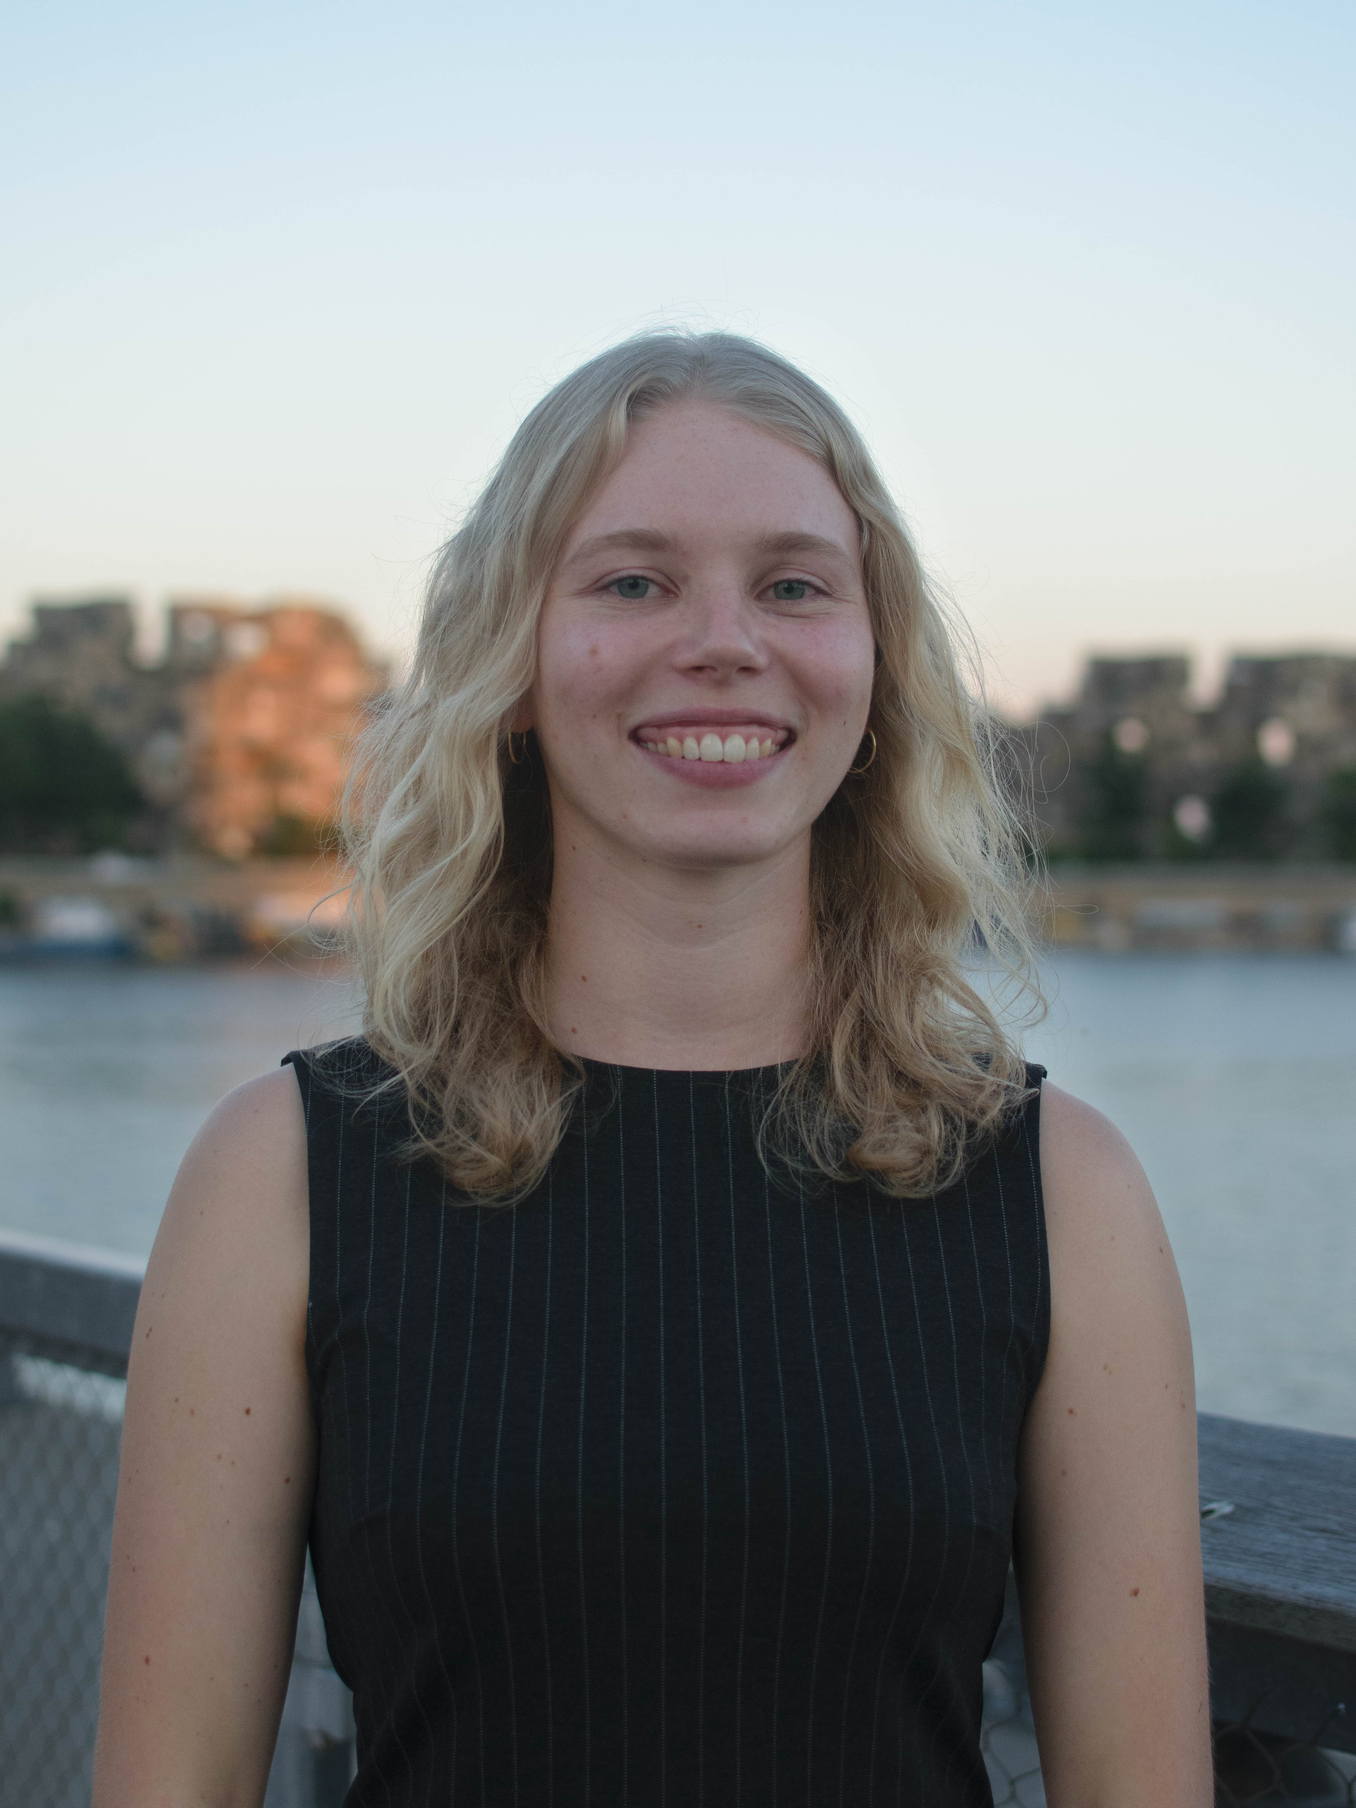
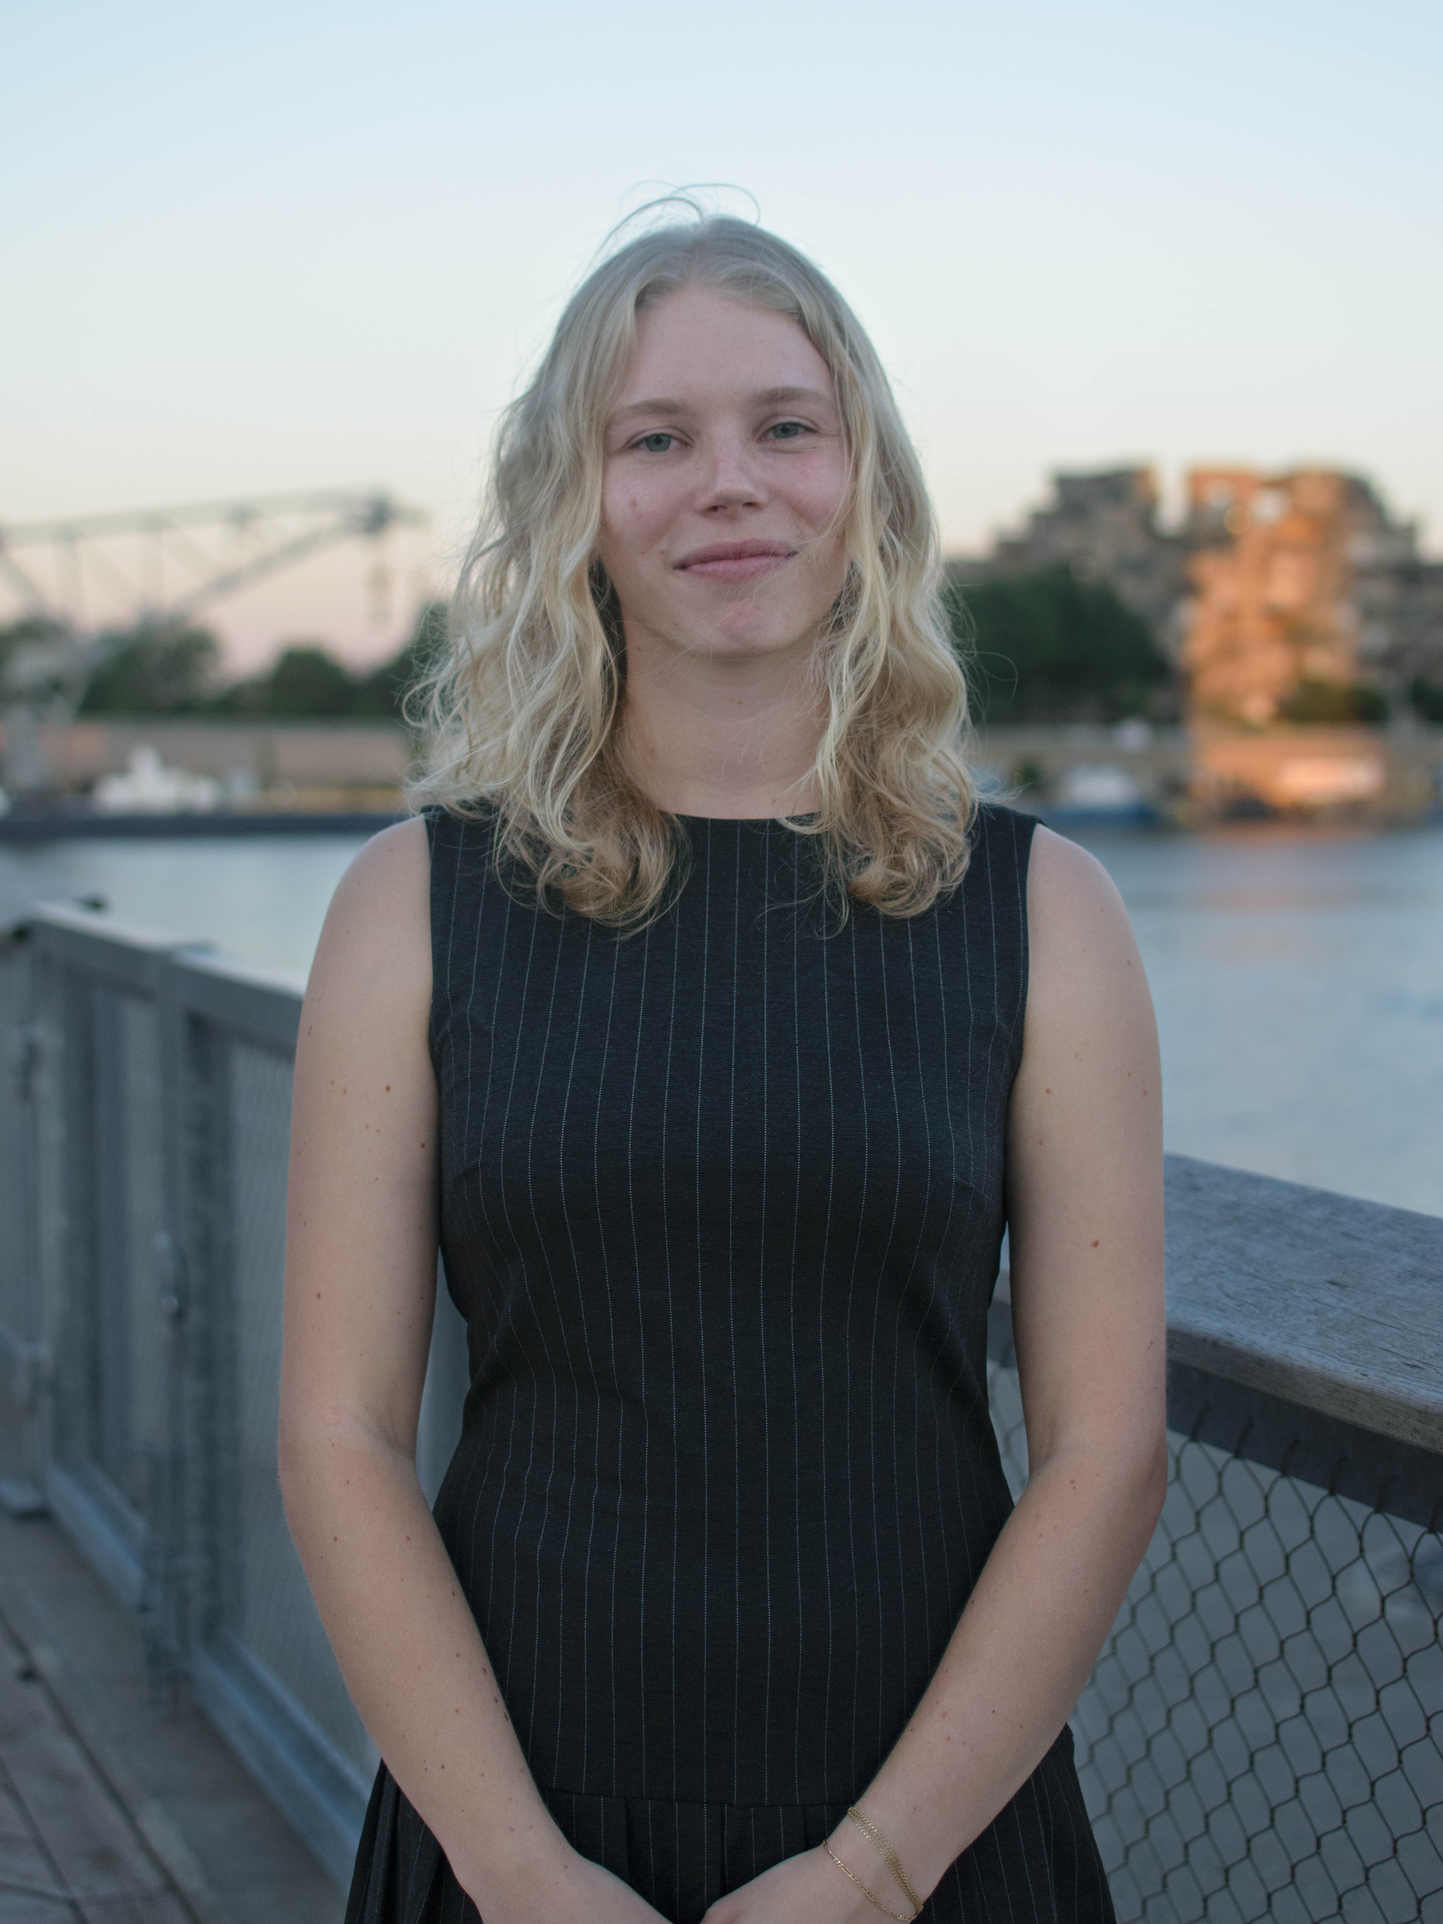
[refactor] : synchronize project descriptions and disable access to BIRA and PODI detail pages

diff --git a/src/pages/Team.tsx b/src/pages/Team.tsx
@@ -82,7 +82,7 @@ function MemberModal({ member, onClose }: { member: TeamMember; onClose: () => v
 
     return (
         <div
-            className={`fixed inset-0 z-[60] flex bg-heka transition-opacity duration-500 ${visible ? 'opacity-100' : 'opacity-0'}`}
+            className={`fixed inset-0 z-60 flex bg-heka transition-opacity duration-500 ${visible ? 'opacity-100' : 'opacity-0'}`}
             role='dialog'
             aria-modal='true'
             aria-label={`Détails de ${member.name}`}
@@ -90,7 +90,9 @@ function MemberModal({ member, onClose }: { member: TeamMember; onClose: () => v
                 if (event.target === event.currentTarget) onClose();
             }}
         >
-            <div className={`flex h-full w-full flex-col overflow-y-auto transition-transform duration-500 lg:flex-row ${visible ? 'translate-x-0' : 'translate-x-full'}`}>
+            <div
+                className={`flex h-full w-full flex-col overflow-y-auto transition-transform duration-500 lg:flex-row ${visible ? 'translate-x-0' : 'translate-x-full'}`}
+            >
                 <div className='relative min-h-[42vh] shrink-0 bg-charcoal lg:min-h-0 lg:w-[43%]'>
                     {member.photo ? (
                         <img
@@ -140,7 +142,10 @@ function MemberModal({ member, onClose }: { member: TeamMember; onClose: () => v
                         <div className='mt-7 space-y-1.5 text-sm sm:text-base'>
                             {member.program && <p>Programme : {member.program}</p>}
                             {member.email && (
-                                <a className='block transition-colors hover:text-heka-yellow' href={`mailto:${member.email}`}>
+                                <a
+                                    className='block transition-colors hover:text-heka-yellow'
+                                    href={`mailto:${member.email}`}
+                                >
                                     Courriel : {member.email}
                                 </a>
                             )}
@@ -170,8 +175,11 @@ function MemberModal({ member, onClose }: { member: TeamMember; onClose: () => v
                         </div>
 
                         <div className='mt-12 border-t border-white/30 pt-6'>
-                            <p className='text-lg leading-relaxed sm:text-xl' style={{ fontFamily: 'var(--font-display)' }}>
-                                “{member.message || 'Un petit mot du membre sera bientôt ajouté.'}”
+                            <p
+                                className='text-lg leading-relaxed sm:text-xl'
+                                style={{ fontFamily: 'var(--font-display)' }}
+                            >
+                                {member.message ? `“${member.message}”` : ''}
                             </p>
                         </div>
                     </div>
@@ -257,7 +265,10 @@ export default function Team() {
                                     key={m.id}
                                     className='w-full sm:w-[calc(50%-0.5rem)] lg:w-[calc(25%-0.75rem)]'
                                 >
-                                    <MemberCard member={m} onOpen={() => setSelectedMember(m)} />
+                                    <MemberCard
+                                        member={m}
+                                        onOpen={() => setSelectedMember(m)}
+                                    />
                                 </div>
                             ))}
                         </div>
@@ -288,7 +299,10 @@ export default function Team() {
                                     key={m.id}
                                     className='w-full sm:w-[calc(50%-0.5rem)] lg:w-[calc(33.333%-0.667rem)]'
                                 >
-                                    <MemberCard member={m} onOpen={() => setSelectedMember(m)} />
+                                    <MemberCard
+                                        member={m}
+                                        onOpen={() => setSelectedMember(m)}
+                                    />
                                 </div>
                             ))}
                         </div>
@@ -319,7 +333,10 @@ export default function Team() {
                                     key={m.id}
                                     className='w-full sm:w-[calc(50%-0.5rem)] lg:w-[calc(33.333%-0.667rem)]'
                                 >
-                                    <MemberCard member={m} onOpen={() => setSelectedMember(m)} />
+                                    <MemberCard
+                                        member={m}
+                                        onOpen={() => setSelectedMember(m)}
+                                    />
                                 </div>
                             ))}
                         </div>

diff --git a/src/pages/Home.tsx b/src/pages/Home.tsx
@@ -72,21 +72,18 @@ const PROJECT_THEME = {
         accent: '#C8281A',
         accentBg: '#FEF0EF',
         accentBorder: '#F5BCBA',
-        pageId: 'projet-podi',
     },
 
     bira: {
         accent: '#1B4F72',
         accentBg: '#E8F0F7',
         accentBorder: '#A8C5DC',
-        pageId: 'projet-bira',
     },
 
     default: {
         accent: '#6B7280',
         accentBg: '#F3F4F6',
         accentBorder: '#D1D5DB',
-        pageId: 'projets',
     },
 };
 export default function Home({ navigate }: HomeProps) {
@@ -224,11 +221,8 @@ export default function Home({ navigate }: HomeProps) {
                                         <h3 className='text-xl font-semibold text-charcoal mb-3'>
                                             {project.challenge}
                                         </h3>
-                                        <p className='text-muted text-sm leading-relaxed mb-6'>{project.problem}</p>
-                                        <p className='text-charcoal text-sm leading-relaxed mb-6'>
-                                            {project.shortDescription}
-                                        </p>
-                                        {
+                                        <p className='text-muted text-sm leading-relaxed'>{project.description}</p>
+                                        {project.showProjectPage && (
                                             <button
                                                 onClick={() => handleNav(`projet-${project.slug}`)}
                                                 className='inline-flex items-center gap-2 text-sm font-semibold hover:gap-3 transition-all'
@@ -236,7 +230,7 @@ export default function Home({ navigate }: HomeProps) {
                                             >
                                                 Découvrir le projet →
                                             </button>
-                                        }
+                                        )}
                                     </div>
                                 </div>
                             );
@@ -416,8 +410,8 @@ export default function Home({ navigate }: HomeProps) {
                                             </span>
                                         </div>
                                         <h3 className='text-xl font-semibold text-charcoal mb-3'>{project.title}</h3>
-                                        <p className='text-sm text-muted leading-relaxed mb-5'>{project.problem}</p>
-                                        <div className='flex flex-wrap gap-2 mb-6'>
+                                        <p className='text-sm text-muted leading-relaxed mb-6'>{project.description}</p>
+                                        <div className='flex flex-wrap gap-2'>
                                             {project.disciplines.slice(0, 3).map((d) => (
                                                 <span
                                                     key={d}
@@ -432,6 +426,7 @@ export default function Home({ navigate }: HomeProps) {
                                                 </span>
                                             )}
                                         </div>
+                                        {project.showProjectPage && (
                                         <button
                                             onClick={() => handleNav(`projet-${project.slug}`)}
                                             className='text-sm font-semibold hover:opacity-75 transition-opacity'
@@ -439,6 +434,7 @@ export default function Home({ navigate }: HomeProps) {
                                         >
                                             Voir le projet →
                                         </button>
+                                        )}
                                     </div>
                                 </div>
                             );

diff --git a/src/data/team.ts b/src/data/team.ts
@@ -37,7 +37,7 @@ export const team: TeamMember[] = [
         photo: 'public/images/team/members/CLUB-1.jpg',
         linkedin: 'https://www.linkedin.com/in/phi-dan-nguyen',
         message:
-            'Salut! Je suis Phi-Dan, le directeur général d’Héka. Je suis passionné par la technologie et l’innovation, et je suis ravi de diriger une équipe aussi talentueuse. N’hésitez pas à me contacter pour toute question ou collaboration!',
+            "Phi-Dan est un étudiant en génie logiciel à Polytechnique Montréal. Il est passionné par la technologie et l'innovation, et il croit fermement que la collaboration entre les disciplines est essentielle pour résoudre les problèmes complexes de notre société. En tant que directeur général d'Héka, Phi-Dan s'engage à diriger l'équipe avec vision et détermination, en veillant à ce que chaque membre ait l'opportunité de contribuer et de grandir dans un environnement stimulant et inclusif.",
         email: 'president@heka.polymtl.ca',
     },
     {
@@ -172,10 +172,10 @@ export const team: TeamMember[] = [
         id: 'cs-robotique-bira',
         name: 'Matthias Benoist',
         role: 'CS Robotique',
-        program: '',
+        program: 'Maitrise en génie informatique',
         project: 'bira',
         group: ['bira'],
-        photo: '',
+        photo: 'images/team/members/IMG_1358.jpg',
         linkedin: '',
         email: '',
     },
@@ -183,10 +183,10 @@ export const team: TeamMember[] = [
         id: 'cs-pince-bira',
         name: 'Cai Jie',
         role: 'CS Pince',
-        program: '',
+        program: 'Génie biomédical',
         project: 'bira',
         group: ['bira'],
-        photo: '',
+        photo: 'images/team/members/IMG_1326.jpg',
         linkedin: '',
         email: '',
     },
@@ -194,10 +194,10 @@ export const team: TeamMember[] = [
         id: 'cs-pcb-bira',
         name: 'Dali Lourdjane',
         role: 'CS PCB',
-        program: '',
+        program: 'Génie électrique',
         project: 'bira',
         group: ['bira'],
-        photo: '',
+        photo: 'images/team/members/IMG_1351.jpg',
         linkedin: '',
         email: '',
     },
@@ -205,10 +205,21 @@ export const team: TeamMember[] = [
         id: 'cs-ia-bira',
         name: 'Abdellah Ryad Bellit',
         role: 'CS IA',
-        program: '',
+        program: 'Génie Logiciel',
         project: 'bira',
         group: ['bira'],
-        photo: '',
+        photo: 'images/team/members/IMG_1316.jpg',
+        linkedin: '',
+        email: '',
+    },
+    {
+        id: 'cs-structure-bira',
+        name: 'Pierre Caminati',
+        role: 'CS Structure',
+        program: 'Génie mécanique',
+        project: 'bira',
+        group: ['bira'],
+        photo: 'images/team/members/IMG_1339.jpg',
         linkedin: '',
         email: '',
     },

diff --git a/src/App.tsx b/src/App.tsx
@@ -1,18 +1,35 @@
-import { useState } from 'react';
+import { useEffect, useState } from 'react';
 import Nav from './components/Nav';
 import Footer from './components/Footer';
 import Home from './pages/Home';
 import About from './pages/About';
 import Projects from './pages/Projects';
-import ProjectBIRA from './pages/ProjectBIRA';
-import ProjectPODI from './pages/ProjectPODI';
 import Achievements from './pages/Achievements';
 import Team from './pages/Team';
 import Partners from './pages/Partners';
 import Contact from './pages/Contact';
 
+const DISABLED_PROJECT_PATHS = new Set([
+    '/projet-bira',
+    '/projet-podi',
+    '/projets/bira',
+    '/projets/podi',
+    '/projects/bira',
+    '/projects/podi',
+]);
+
+function isDisabledProjectPath(pathname: string) {
+    return DISABLED_PROJECT_PATHS.has(pathname.toLowerCase().replace(/\/+$/, '') || '/');
+}
+
 export default function App() {
-    const [page, setPage] = useState('accueil');
+    const [page, setPage] = useState(() => (isDisabledProjectPath(window.location.pathname) ? 'projets' : 'accueil'));
+
+    useEffect(() => {
+        if (isDisabledProjectPath(window.location.pathname)) {
+            window.history.replaceState(null, '', '/projets');
+        }
+    }, []);
     const navigate = (p: string) => setPage(p);
 
     const renderPage = () => {
@@ -21,10 +38,6 @@ export default function App() {
                 return <Home navigate={navigate} />;
             case 'apropos':
                 return <About navigate={navigate} />;
-            case 'projet-bira':
-                return <ProjectBIRA navigate={navigate} />;
-            case 'projet-podi':
-                return <ProjectPODI navigate={navigate} />;
             case 'projets':
                 return <Projects navigate={navigate} />;
             case 'realisations':
@@ -40,12 +53,10 @@ export default function App() {
         }
     };
 
-    const navPage = page.startsWith('projet-') ? 'projets' : page;
-
     return (
         <div className='min-h-screen bg-[#F8F7F3] flex flex-col'>
             <Nav
-                current={navPage}
+                current={page}
                 navigate={navigate}
             />
             <main className='flex-1'>{renderPage()}</main>

diff --git a/src/data/projects.ts b/src/data/projects.ts
@@ -35,10 +35,10 @@ export const currentProjects: Project[] = [
         shortDescription:
             "Un exosquelette destiné à assister les pompiers en réduisant la fatigue et les contraintes musculosquelettiques lors d'interventions.",
         description:
-            'PODI est un exosquelette — sans moteur ni batterie — conçu pour redistribuer les charges et réduire la fatigue des pompiers sans limiter leur mobilité opérationnelle.',
+            'PODI est un exosquelette conçu pour redistribuer les charges et réduire la fatigue des pompiers sans limiter leur mobilité opérationnelle.',
         status: 'Construction de la 4e itération',
         theme: 'podi',
-        showProjectPage: true,
+        showProjectPage: false,
 
         disciplines: [
             'Biomécanique',
@@ -128,7 +128,7 @@ export const currentProjects: Project[] = [
                 desc: 'Pouvoir être enfilé et retiré rapidement, sans assistance et sous stress.',
             },
             {
-                title: "Assistance naturelle et confortable",
+                title: 'Assistance naturelle et confortable',
                 desc: 'Contrôler les moteurs en parfaite harmonie avec les mouvements humains.',
             },
         ],
@@ -162,7 +162,7 @@ export const currentProjects: Project[] = [
             "BIRA interprète des commandes exprimées en langage naturel et les traduit en mouvements du bras robotique, rendant l'assistance accessible sans apprentissage technique.",
         status: 'Développement actif',
         theme: 'bira',
-        showProjectPage: true,
+        showProjectPage: false,
 
         disciplines: [
             'Intelligence artificielle',

diff --git a/src/components/Footer.tsx b/src/components/Footer.tsx
@@ -1,5 +1,6 @@
 import { navigation } from '../data/navigation';
 import { site } from '../data/site';
+import { asset } from '../utils/assets';
 
 interface FooterProps {
     navigate: (page: string) => void;
@@ -17,13 +18,12 @@ export default function Footer({ navigate }: FooterProps) {
                 <div className='grid grid-cols-1 md:grid-cols-2 lg:grid-cols-4 gap-10 pb-12 border-b border-white/10'>
                     <div className='lg:col-span-2'>
                         <div className='flex items-center gap-2.5 mb-4'>
-                            <div className='w-8 h-8 rounded-full bg-heka flex items-center justify-center'>
-                                <span
-                                    className='text-white text-xs font-bold'
-                                    style={{ fontFamily: 'var(--font-mono)' }}
-                                >
-                                    H
-                                </span>
+                            <div className='w-8 h-8 rounded-full flex items-center justify-center overflow-hidden'>
+                                <img
+                                    src={asset('/images/Heka_Cercle_blanc.png')}
+                                    alt='Logo Héka'
+                                    className='w-full h-full object-cover'
+                                />
                             </div>
                             <span className='text-white font-semibold text-lg'>{site.name}</span>
                         </div>

diff --git a/src/pages/Projects.tsx b/src/pages/Projects.tsx
@@ -106,7 +106,7 @@ export default function Projects({ navigate }: ProjectsProps) {
                                     </h2>
                                     <p className='text-sm text-muted mb-5 font-medium'>{project.title}</p>
                                     <p className='text-muted leading-relaxed mb-8 text-sm'>{project.description}</p>
-                                    <div className='flex flex-wrap gap-2 mb-8'>
+                                    <div className='flex flex-wrap gap-2'>
                                         {project.disciplines.slice(0, 4).map((d) => (
                                             <span
                                                 key={d}
